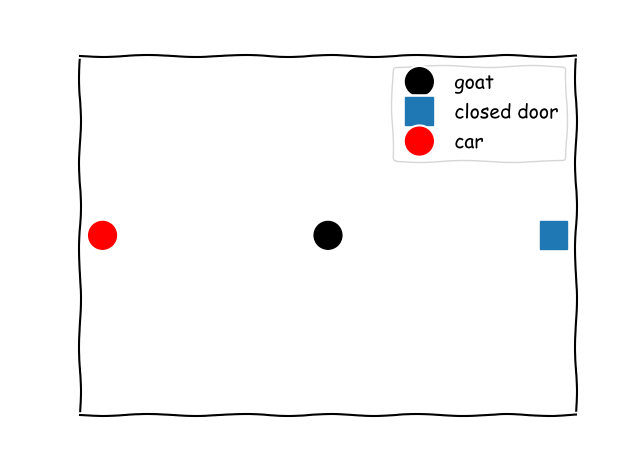
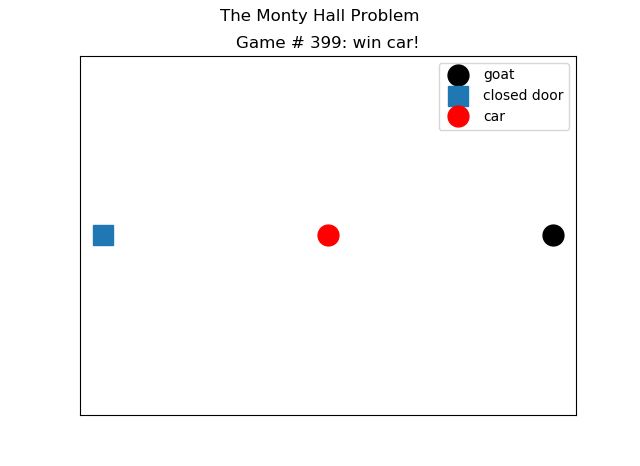
small improvements

diff --git a/monte_hall.py b/monte_hall.py
@@ -6,89 +6,93 @@ Created on Wed Jan  2 19:57:22 2019
 """
 import random as ran
 import matplotlib.pyplot as plt
-'''monte_hall.py - Simulations elucidating the Monte Hall problem. Solutions
+'''monte_hall.py - Simulations elucidating the Monty Hall problem. Solutions
 in concordance with Marilyn vos Savant's argument.
 
 Andrew Garcia, 2019'''
 
-plt.xkcd()
+#plt.xkcd()
 doors = ['car','goat','goat']
 
 
 def monty(doors,k_c):
     k = 0
-    while doors[k] != 'goat' or k == k_c:        
+    while doors[k] != 'goat' or k == k_c:
         k=ran.randint(0,2)
-        
+
 
     return doors[k],k
 
 
-def game():
+def game(trial):
     random.shuffle(doors)
-    
+
     'contestant chooses door but choice is not revealed to him'
     ind_c = ran.randint(0,2)
     door_choice = doors[ind_c]
-    
+
     print(door_choice, ind_c)
-    
+
     'monty shows door with goat to contestant, this is what is seen:'
     doors_revealed = ['closed door']*3
     str_goat, ind_goat = monty(doors,ind_c)
     doors_revealed[ind_goat] = str_goat
     doors_revealed[ind_c] = 'door opened'
-    
+
     'change door after shown the door w/ goat'
     ind_swap = doors_revealed.index('closed door')
-    
+
     final_choice = doors[ind_swap]
-    
+
     print(doors_revealed)
     print(final_choice)
     print()
-    
+
     plt.clf()
-    m_size=20
+    m_size=15
     plt.plot(ind_goat,0,'ko',markersize=m_size,label='goat')
     if final_choice == 'car':
         plt.plot(ind_c,0,'s',markersize=m_size,label='closed door')
         plt.plot(ind_swap,0,'ro',markersize=m_size,label='car')
+        msg = 'win car!'
     else:
         plt.plot(ind_c,0,'s',markersize=m_size,label='closed door')
         plt.plot(ind_swap,0,'ko',markersize=m_size,label='goat')
+        msg = 'get goat (loser)'
     plt.legend()
     plt.xticks([])
     plt.yticks([])
-
+    plt.suptitle('The Monty Hall Problem')
+    plt.title('Game # {}: {}'.format(trial+1,msg))
     plt.show()
     plt.pause(0.0001)
 
-    
+
     return final_choice
 
-def iters():
+def iters(trials):
     car, goat = 0, 0
-    for i in range(200):
-        if game() == 'car':
+    for i in range(trials):
+        if game(i) == 'car':
             car += 1
         else:
             goat += 1
-            
+
     return [car, goat]
 
-y=iters()
+y=iters(100)
 x=[-0.125, 1- 0.125]
 plt.figure()
 plt.bar(x,y,0.25)
 plt.xlim(-0.5,1.5)
-plt.title('Outcome after changing doors')
-plt.xticks(x,['car','goat'])
+plt.suptitle('The Monty Hall Problem')
+plt.title('Game Outcomes')
+plt.xticks(x,['car winner','goat owner (loser)'])
 
 
-    
-    
+
+
 #    index = random.randint(0,2)
-    
+
 #    if doors_rev[index] = 'G':
-#        choose_again  
+#        choose_again
